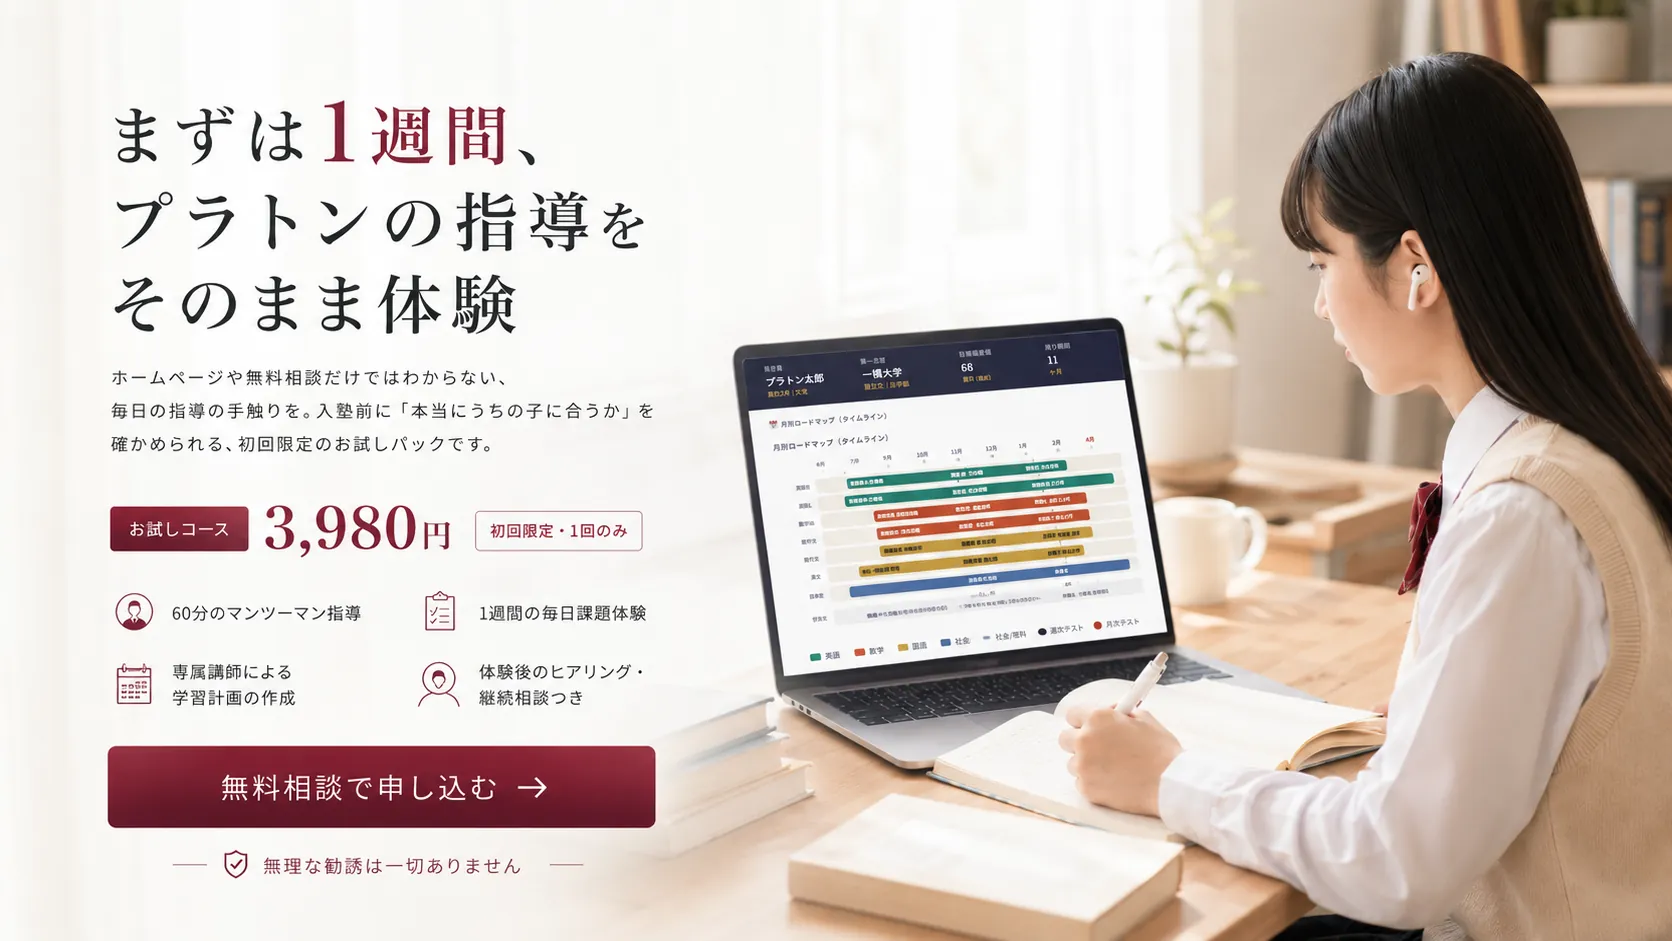
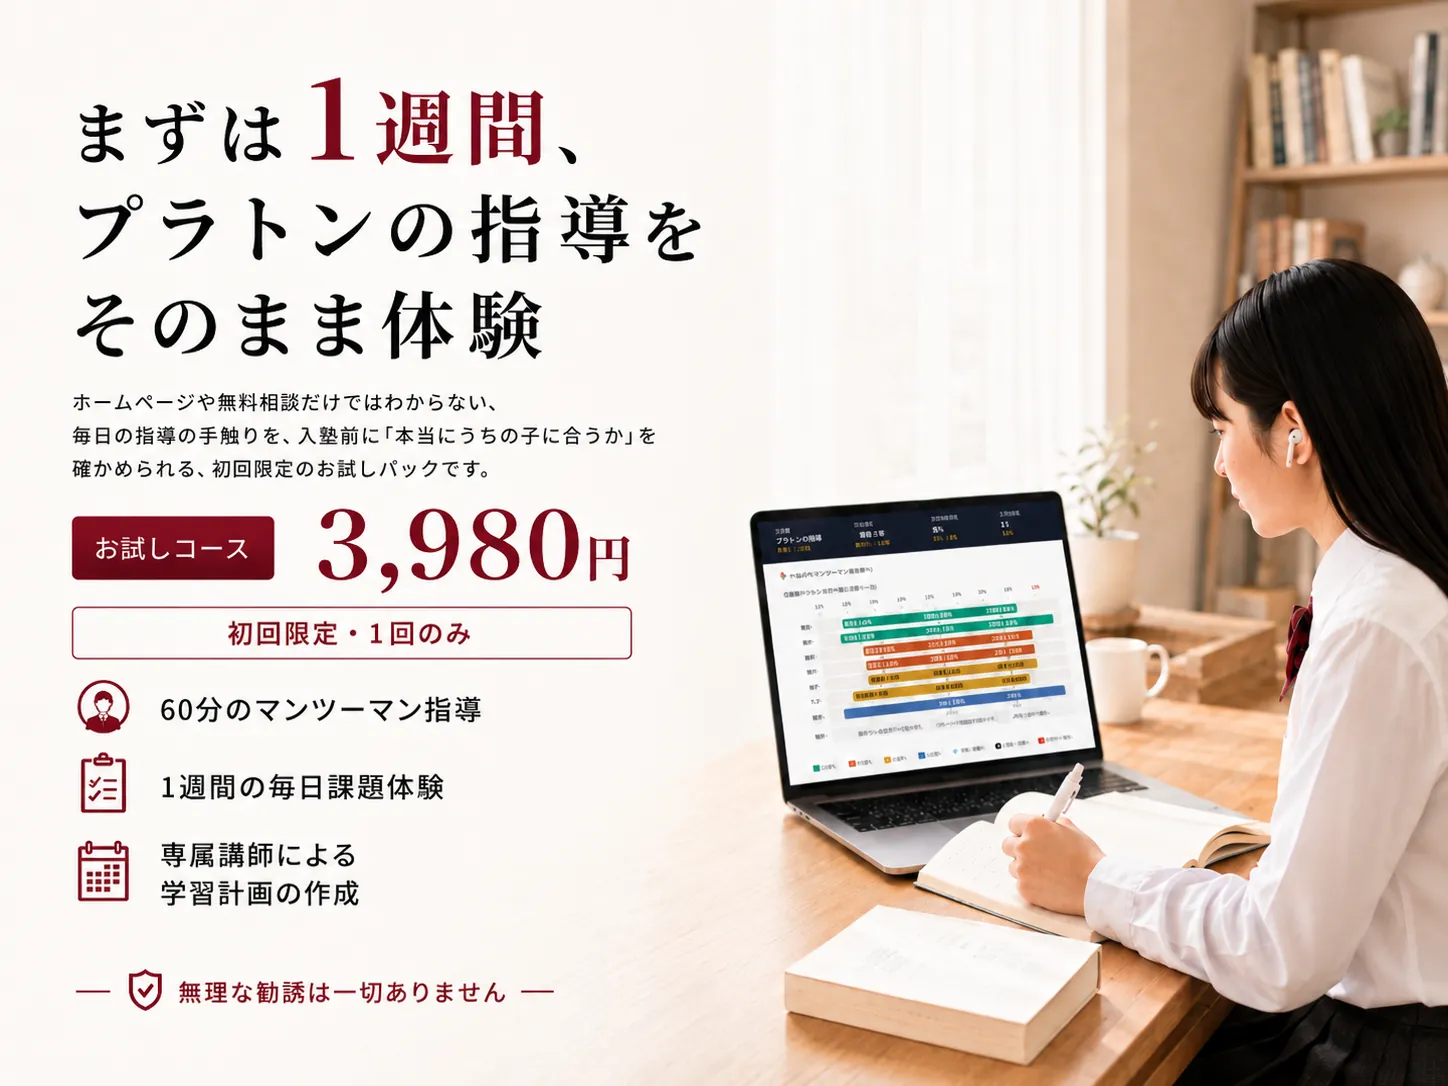
news-otameshi: FV画像を新デザインに差し替え
- 新バナー(PC 1448x1086 / SP 1084x1451)を最適化してWebP+JPGで配信
- PCの縦横比変更(16:9→4:3)に合わせCSSアスペクト比とimg属性を更新
- 元PNGは削除

https://claude.ai/code/session_01R7cto82LGGoETLSKgvLc49

diff --git a/news-otameshi/index.html b/news-otameshi/index.html
@@ -154,7 +154,7 @@
     display: block;
     width: 100%;
     height: auto;
-    aspect-ratio: 1672 / 941;
+    aspect-ratio: 1448 / 1086;
     border-radius: 16px;
     box-shadow: 0 12px 44px rgba(74, 30, 39, 0.18);
     transition: transform 0.4s ease, box-shadow 0.4s ease;
@@ -172,7 +172,7 @@
   }
   @media (max-width: 720px) {
     .fv { padding: 0 16px; margin-top: 16px; }
-    .fv img { aspect-ratio: 1086 / 1448; border-radius: 12px; }
+    .fv img { aspect-ratio: 1084 / 1451; border-radius: 12px; }
   }
   @media (max-width: 480px) {
     .fv { padding: 0 12px; }
@@ -1416,7 +1416,7 @@
     <source type="image/webp" srcset="images/fv-pc.webp">
     <img src="images/fv-pc.jpg"
          alt="お試しコース 3,980円。まずは1週間、プラトンのオンライン60分マンツーマン指導と毎日課題をそのまま体験できる初回限定パック。専属講師による学習計画の作成・体験後のヒアリング／継続相談つき。"
-         width="1672" height="941"
+         width="1448" height="1086"
          fetchpriority="high" decoding="async">
   </picture>
 </a>
